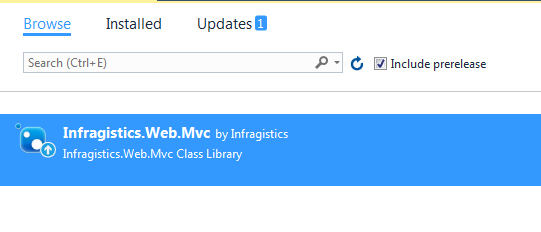
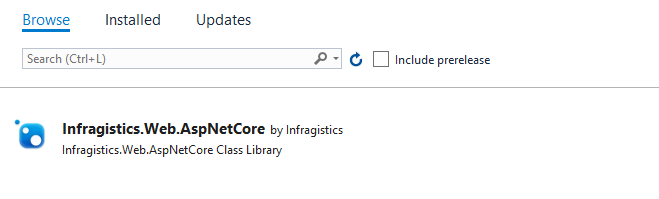
Adding What's new topic

diff --git a/topics/05_ASP-NET-MVC/Using_IgniteUI_Controls_in_ASP.NET_Core_project.md b/topics/05_ASP-NET-MVC/Using_IgniteUI_Controls_in_ASP.NET_Core_project.md
@@ -1,0 +1,100 @@
+<!--
+|metadata|
+{
+    "fileName": "mvc-aspnet-core3",
+    "controlName": "",
+    "tags": ["ASP.NET MVC","Getting Started"]
+}
+|metadata|
+-->
+
+# Using %%ProductName%% controls in ASP.NET Core 3.0
+
+## Topic Overview
+
+This topic explains how to get started with %%ProductName%%™ components in an ASP.NET Core Web Application built with ASP.NET Core 3.0.
+
+### In this topic
+
+This topic contains the following sections:
+
+-   [Referencing the Infragistics Web MVC NuGet package](#nuget)
+-   [Configuring the igUpload Middleware for file upload handling](#middleware)
+-   [Related Content](#related)
+
+## <a id="nuget"></a> Referencing the Infragistics Web MVC NuGet package
+
+### <a id="nuget-local"></a> Using local feed
+With the new ASP.NET most modules are now wrapped as NuGet packages. This allows you to retrieve and use only the specific modules you need for your application, without having to depend on a common assembly. All dependencies of the specific module will be restored out of the box.
+
+
+As such our new MVC wrappers built on top of ASP.NET Core will also ship as a NuGet package. 
+The NuGet package can be found in the installation directory of the %%ProductName%% product under "MVC\AspNetCore". In the folder there is a zip file that contains the NuGet package. You need to unzip it first.
+
+To add that directory (where you unzipped the file) as a package source for the NuGet package manager you can open the package manager and open the settings via the gear button.
+
+![](images/packageSource.png)
+	 
+From the options window add a new package source and change the source path to point to the NuGet package in the installation directory. The result should look similar to the following screenshot.
+
+![](images/packageSourceConfig.png)
+	 
+Once the source is configured you can select it as the currently active package source and you'll find the NuGet package in the "Browse" tab.
+
+![](images/package.png)
+
+You can install it via the "Install" button.
+
+Control's declaration follows the same syntax as the previous MVC versions. You can refer to the following topic for more information and examples: [Adding Controls to an MVC Project](Adding-NetAdvantage-Controls-to-an-MVC-Project.html)
+
+### <a id="nuget-licensed"></a> Using online private feed
+
+You can also install Infragistics Web MVC NuGet package using the Infragistics hosted NuGet server. Checkout [Installing Ignite UI packages from the online private feed](using-ignite-ui-nuget-packages.html#privateFeedInstallation) topic for more information.
+
+## <a id="middleware"></a> Configuring the igUpload Middleware for file upload handling
+
+In the old ASP.NET in order to handle more robust file uploading capabilities as multiple file uploads, large file uploads and reporting of the progress of an upload you would have to implement an HttpModule and/or HttpHandler in order to plug into the HTTP Request process.  
+ASP.NET Core introduces a new request pipeline built around a new middleware definition. 
+The %%ProductName%% file upload fully utilizes the new middleware definition model and can be directly plugged into the pipeline.
+There are two middleware modules - one for handling uploads and one for receiving commands from the client and returning status feedback to the client. 
+In order to add them to the pipeline they need to be include in the Configure method of the Startup.cs class before the MVC module.  
+
+**In C#:**
+
+```csharp
+	 public void Configure(IApplicationBuilder app, IHostingEnvironment env, ILoggerFactory loggerFactory) 
+        { 
+			... 
+            app.UseUploadModuleMiddleware(); 
+            app.UseUploadHandlerMiddleware(); 
+ 
+            app.UseMvc(routes => 
+            { 
+                routes.MapRoute( 
+                    name: "default", 
+                    template: "{controller=Home}/{action=Index}/{id?}"); 
+            }); 
+			
+			...
+		}
+```
+
+Additional settings for the upload can be set in the ConfigureServices method. The options can either be set declaratively or retrieved from the configurations file.
+
+
+
+**In C#:**
+
+```csharp
+	public void ConfigureServices(IServiceCollection services)
+        {
+        	...
+			services.Configure<UploadAppSettings>(options => {
+                options.FileUploadPath = Configuration["UploadAppSettings:fileUploadPath"]; 
+            });
+		}
+```
+
+
+## <a id='related'></a> Related Content
+- [Adding Controls to an MVC Project](Adding-NetAdvantage-Controls-to-an-MVC-Project.html)

diff --git a/topics/05_ASP-NET-MVC/Using_Ignite_UI_Tag_Helpers.md b/topics/05_ASP-NET-MVC/Using_Ignite_UI_Tag_Helpers.md
@@ -29,18 +29,18 @@ To add all %%ProductName%% Tag Helpers to the current view scope, the @addTagHel
 ```csharp
 @using Infragistics.Web.Mvc
 
-@addTagHelper "Infragistics.Web.Mvc.TagHelpers.*, Infragistics.Web.Mvc"
+@addTagHelper *, Infragistics.Web.AspNetCore
 ```
 
 The namespace using is not required if no enumeration options are used. 
 In order to register only a specific control to the view, the namespace of the control Tag Helper should be specified by ending with wildcard (*).
 
-For example if the igGrid should be only registered:
+For example if the igGrids should be only registered:
 
 ```csharp
 @using Infragistics.Web.Mvc
 
-@addTagHelper "Infragistics.Web.Mvc.TagHelpers.Grids.Grid.*, Infragistics.Web.Mvc"
+@addTagHelper Infragistics.Web.Mvc.TagHelpers.Grids.*, Infragistics.Web.AspNetCore
 ```
 
 ## <a id="control-configuration"></a> Configuring data bound control

diff --git a/topics/07_What's-New/00_Whats_New_In_2019_Volume2.md b/topics/07_What's-New/00_Whats_New_In_2019_Volume2.md
@@ -1,0 +1,20 @@
+<!--
+|metadata|
+{
+    "fileName": "whats-new-in-2019-volume2",
+    "controlName": [],
+    "tags": []
+}
+|metadata|
+-->
+
+# What's New in 2019 Volume 2
+
+This topic presents the new features for the Ignite UI™ 2019 Volume 2 release.
+
+### Infragistics MVC Helpers
+Infragistics ASP.NET MVC Helpers now support ASP.NET Core 3 projects. For more information see the [Using Ignite UI controls in ASP.NET Core](Using-IgniteUI-Controls-in-ASP.NET-Core-project.html) topic.
+
+
+### Infragistics Tag Helpers
+Infragistics ASP.NET Tag Helpers now support ASP.NET Core 3 projects. For more information see the [Using Ignite UI Tag Helpers](using-ignite-ui-tag-helpers.html) topic.

diff --git a/topics/07_What's-New/~jQuery_Whats_New_Landing_Page.md b/topics/07_What's-New/~jQuery_Whats_New_Landing_Page.md
@@ -19,14 +19,6 @@ The topics in this group provide information about the new controls and features
 
 Detailed information regarding what new controls and features are introduced is covered in the following topics:
 
+- [What’s New in 2019 Volume 2](Whats-New-In-2019-Volume2.html): This topic contains a list of controls and features introduced in the 2019 Volume 2 release of the %%ProductName%% library.
+
 - [Revision History](jQuery-Whats-New-Revision-History.html): This is a topic listing to the What’s New topics for earlier versions.
-
-
-
-
-
- 
-
- 
-
-
